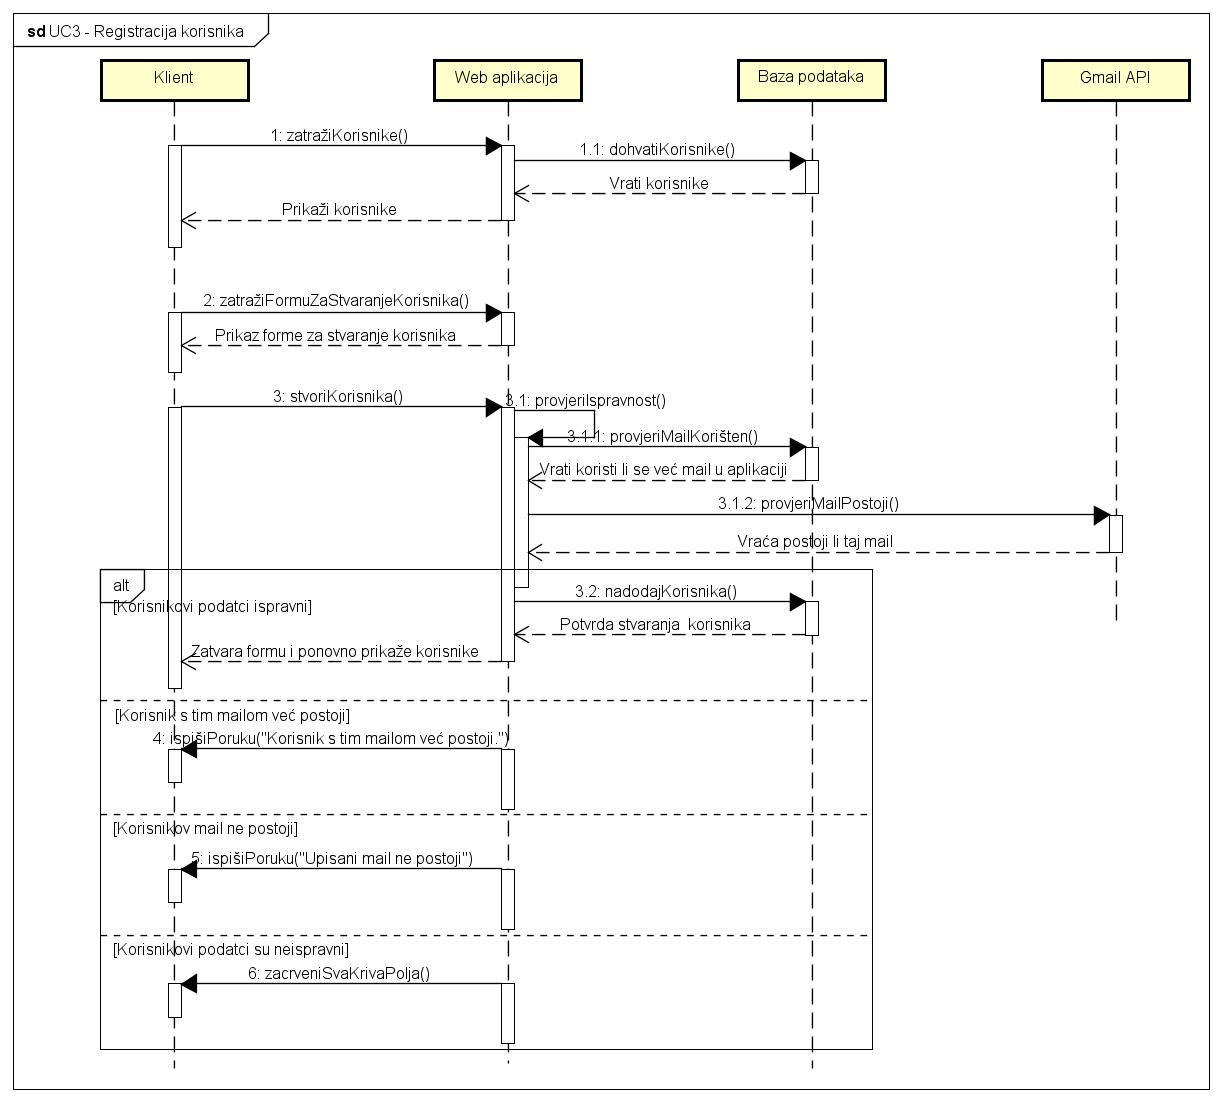
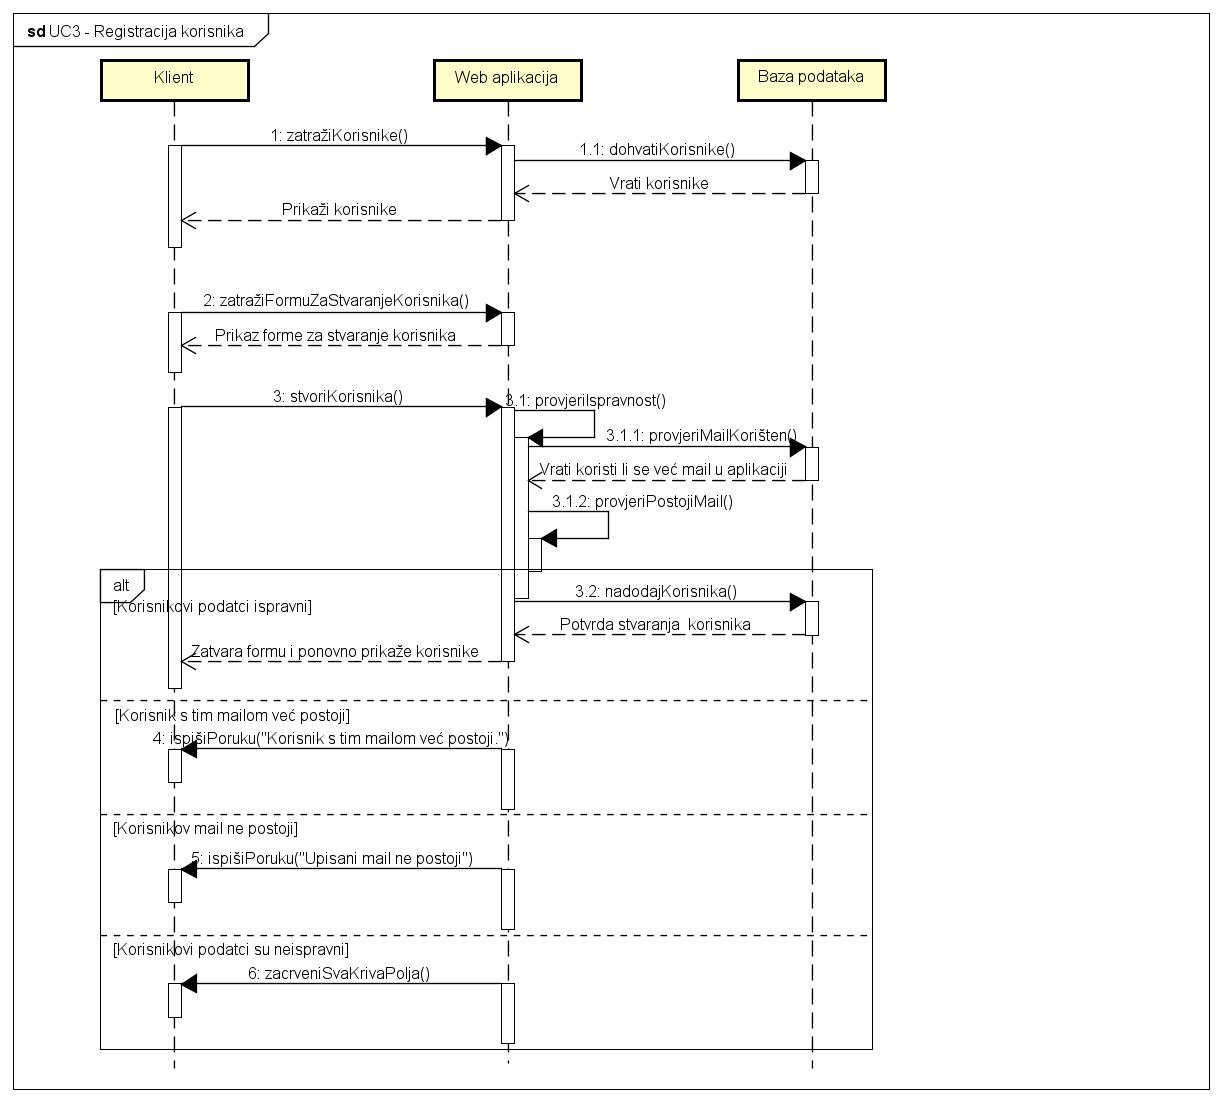
google auth api maknut iz sudionika

diff --git a/Specifikacija_programske_potpore.tex b/Specifikacija_programske_potpore.tex
@@ -139,13 +139,6 @@
 					
 				\end{packed_enum}
 
-				\item  \underbar{Gmail api (sudionik) može:}
-
-				\begin{packed_enum}
-
-					\item Prijavljuje korisnika pomoću njegovog gmaila
-
-				\end{packed_enum}
 			\end{packed_enum}
 			
 			\eject 
@@ -164,7 +157,7 @@
 
 						\item \textbf{Glavni sudionik:} Neprijavljeni korisnik
 						\item \textbf{Cilj:} Stvoriti administratov korisnički račun za pristup aplikaciji
-						\item \textbf{Sudionici:} Baza podataka, Google auth API
+						\item \textbf{Sudionici:} Baza podataka
 						\item \textbf{Preduvjet:} - 
 						\item \textbf{Opis osnovnog tijeka:}
 
@@ -172,7 +165,7 @@
 
 							\item Korisnik dolazi na stranicu koja ga preusmjerava na formu za registraciju prvog korisnika
 							\item Korisnik ispunjava formu emailom prvog administratora
-							\item Stranica preusmjerava korisnika na osnovnu stranicu
+							\item Stranica preusmjerava korisnika na početnu stranicu
 
 						\end{packed_enum}
 
